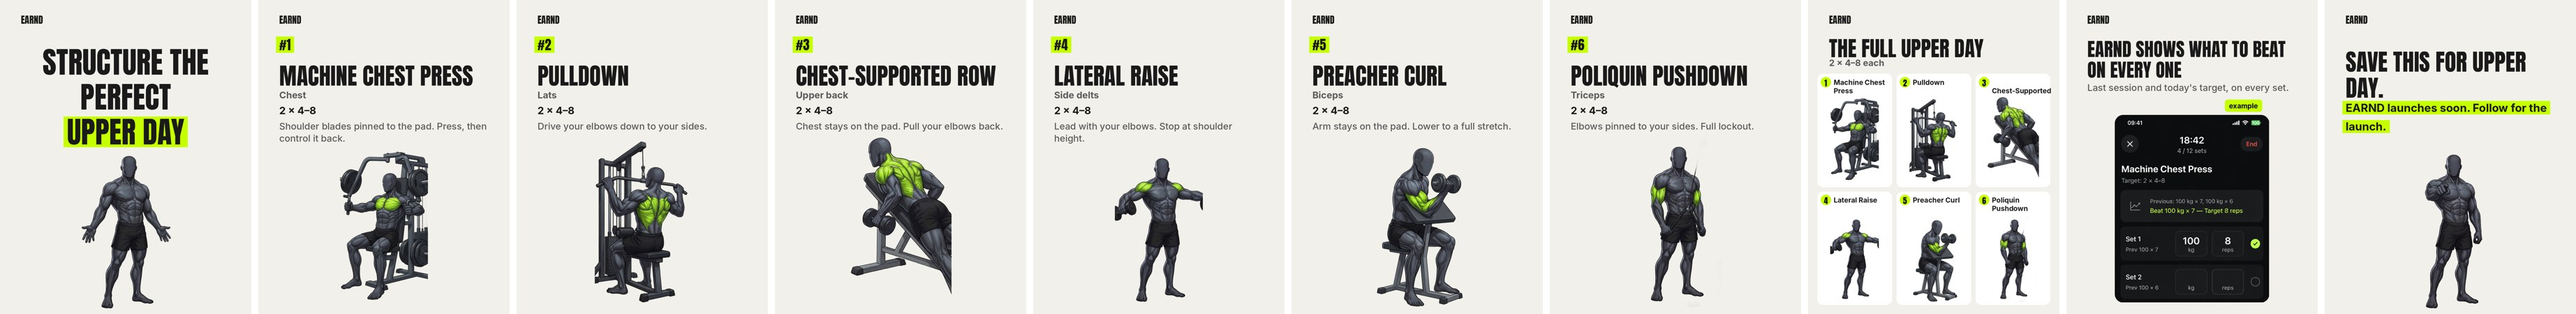
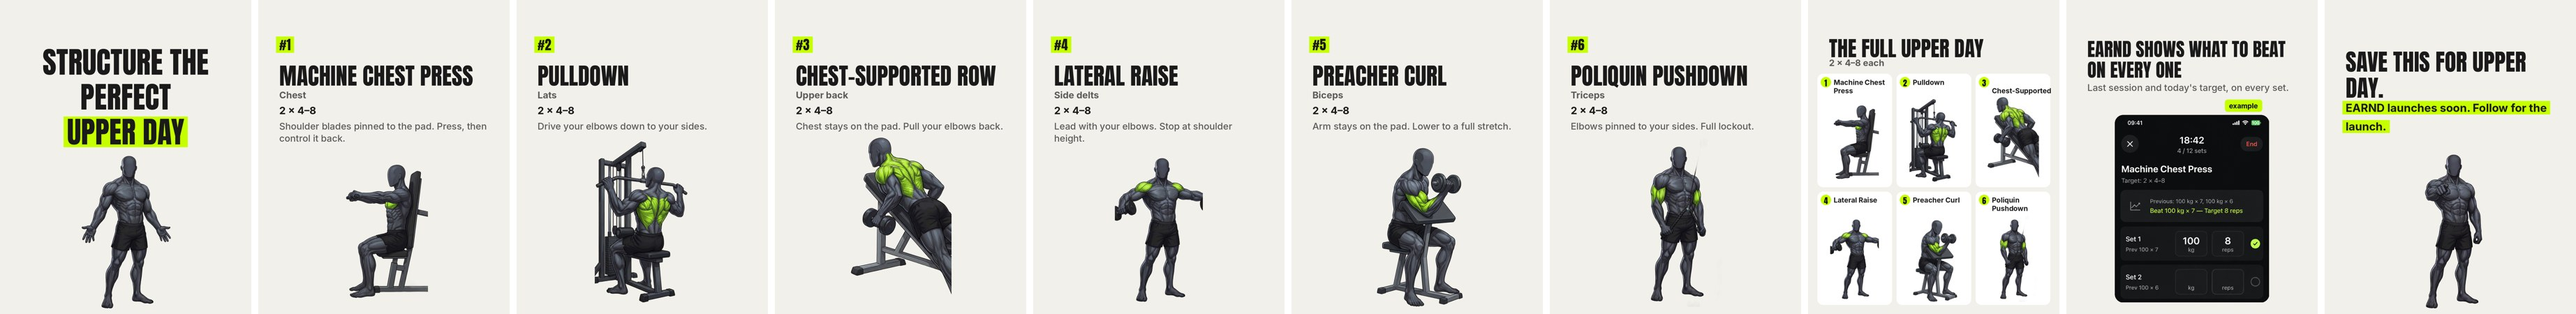
Regenerate chest-press and leg-curl poses; re-render perfect upper/lower day without mark; add 3 @ezyxbt drafts for 2026-10-31
Claude-Session: https://claude.ai/code/session_01Ws8S991F2EukoMgPY9duxg

diff --git a/01-app/brand/mascot-pose-prompts.md b/01-app/brand/mascot-pose-prompts.md
@@ -1,8 +1,6 @@
 # Mascot pose pack: prompts for higgsfield.ai
 
-> **TO REDO (founder, 2026-10-30):** `chest-press` shows a pec-deck fly movement and `leg-curl` shows a leg extension. Regenerate both, then re-render every set using them (`grep -l '"chest-press"\|"leg-curl"' 04-sets/*/edu.json`). Until then, don't use these two poses in new sets.
->
-> **POSES DONE (2026-10-29, generated via MCP from `mascot-final-matte-reference.jpg`):** `01-app/brand/poses/` contains chest-press, pulldown, preacher-curl, triceps-pushdown and cover-arms-open (+ `-cutout.png`). Use them in `edu.json` slides with `"pose": "<name>"`. The default mascot is cover-arms-open. Also done: hammer-curl, overhead-triceps-extension, lateral-raise, chest-supported-row, hack-squat, hip-thrust, romanian-deadlift, thinking, pointing. Plus calf-press, leg-curl, leg-extension, adductor, shoulder-press, pullover, shrug, pec-deck, bayesian-curl: **23 poses, covering every exercise in `01-app/programme.md`**. Known flaw: on leg-curl and adductor the lime covers more of the thigh than the target muscle.
+> **POSES DONE (2026-10-29, generated via MCP from `mascot-final-matte-reference.jpg`):** `01-app/brand/poses/` contains chest-press, pulldown, preacher-curl, triceps-pushdown and cover-arms-open (+ `-cutout.png`). Use them in `edu.json` slides with `"pose": "<name>"`. The default mascot is cover-arms-open. Also done: hammer-curl, overhead-triceps-extension, lateral-raise, chest-supported-row, hack-squat, hip-thrust, romanian-deadlift, thinking, pointing. Plus calf-press, leg-curl, leg-extension, adductor, shoulder-press, pullover, shrug, pec-deck, bayesian-curl: **23 poses, covering every exercise in `01-app/programme.md`**. chest-press and leg-curl were regenerated on 2026-10-31 (seated straight-forward press; prone curl with the pad behind the ankles). Known flaw: on adductor the lime covers more of the thigh than the target muscle.
 >
 > **FINAL MASCOT (2026-10-29):** now with matte skin: `mascot-final-matte-reference.jpg`. `01-app/brand/mascot-final-reference.jpg` (cutout: `mascot-final-cutout.png`). Graphite skin, clean comic-anatomy muscle separation, no bands, lime only on the worked muscle. **Use this prefix for every pose (1K, count 2):**
 > High-quality digital fitness illustration, semi-realistic anatomy, crisp two-tone cel shading with bright cool-grey highlights and deep shadows, clean anatomically accurate muscle separation lines like a comic-book anatomy chart, crisp dark outlines. Same character as the reference image: faceless athletic male, dark graphite-grey skin (#3E444C), smooth bare featureless head, plain black training shorts, no accessories. The muscle being trained is coloured bright lime green (#C6FF00) with visible muscle-fibre striations and darker green shading; everything else stays graphite. Plain flat off-white background, full body visible, centred, side or three-quarter view so the movement is clear. No text, no letters, no logos.
